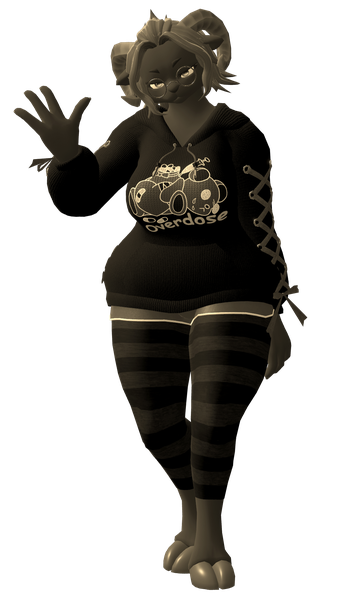
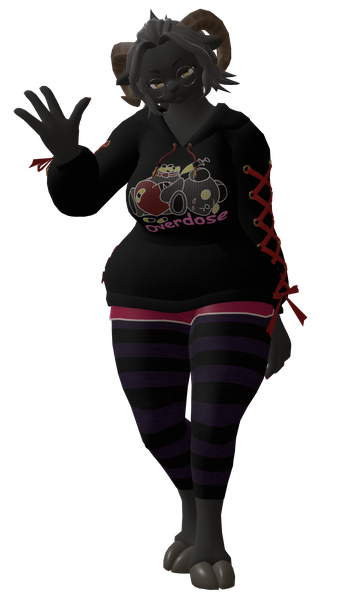
feat: キャストグリッド画像をカラー化・元画像対応表を追加
- 全27名分のグリッド画像（.png）を焼き木フィルターなしのカラーに変更
- docs/cast-images.md を新規作成（キャスト別ソース画像パス対応表）

diff --git a/docs/cast-images.md b/docs/cast-images.md
@@ -1,0 +1,84 @@
+# キャスト画像 元ファイル対応表
+
+画像処理パイプライン用のソース画像管理ドキュメント。
+
+## 処理ルール
+
+| 種類 | 用途 | 処理内容 |
+|------|------|----------|
+| `名前_original.png` | 詳細ビュー（クリック後） | FHD（長辺1920px）以下にリサイズのみ・カラー |
+| `名前.png` | グリッド一覧表示 | 長辺600pxにリサイズのみ・カラー（フィルターなし） |
+
+- 1枚のみ提供の場合: 同じ画像から両方を生成
+
+---
+
+## ソース画像フォルダ
+
+```
+/mnt/e/picture2/mesukemo/          ← ME
+/mnt/c/Users/yuuya/OneDrive/画像/VRChat/2026-04/  ← OD
+```
+
+---
+
+## キャスト別 元画像対応（全員特定済み）
+
+| キャスト | castファイル名 | 1枚目（original用） | 2枚目（grid用） | フォルダ |
+|---------|--------------|-------------------|----------------|---------|
+| takaniso | takaniso | 要提供 | `VRChat_2026-04-10_22-44-21.942_1080x1920.png` | OD |
+| 狐乃さまあ | samaa | 同上 | `VRChat_2026-04-10_03-40-07.191_720x1280.png` | ME (1枚) |
+| ぬの | nuno | 要提供 | `VRChat_2026-04-10_19-45-29.561_1080x1920.png` | ME |
+| きゅーとぬっこ | cute-nukko | 同上 | `VRChat_2026-04-10_19-43-54.378_1440x2560.png` | ME (1枚) |
+| ウルフィー | uryfi | 要提供 | `VRChat_2026-04-10_21-39-41.297_1080x1920.png` | OD |
+| うどん君 | udon_a | `VRChat_2026-04-10_22-18-21.548_1080x1920.png` | `VRChat_2026-04-10_22-17-28.855_1080x1920.png` | OD |
+| 天塚マウル | amatuka-mauru | 要提供 | `VRChat_2026-04-10_22-27-22.730_1080x1920.png` | OD |
+| yuki__san | yuki-san | 同上 | `VRChat_2026-04-10_02-27-41.603_1080x1920.png` | OD (1枚) |
+| 銀天のウェイン | ginten-wayne | 要提供 | `VRChat_2026-04-10_22-31-16.125_1080x1920.png` | ME |
+| 蒼天-Souten- | souten | 同上 | `VRChat_2026-04-09_23-14-22.953_1440x2560.png` | OD (1枚) |
+| 6ugca6 | 6ugca6 | 要提供 | 要提供 | — |
+| 竜ドラ | ryudora | 要提供 | `VRChat_2026-04-10_22-02-54.379_1440x2560.png` | ME |
+| ギラチー | girachii | 要提供 | `VRChat_2026-04-11_00-06-04.981_1080x1920.png` | ME |
+| Esupishia | eclixis | 要提供 | `VRChat_2026-04-10_23-54-44.145_1080x1920.png` | ME |
+| 音狐 | otokitsune | 要提供 | `VRChat_2026-04-11_00-02-16.556_1080x1920.png` | ME |
+| にっくん | nikkun | 要提供 | `VRChat_2026-04-11_00-35-45.199_1080x1920.png` | ME |
+| ？？？ | mystery17 | 同上 | `VRChat_2025-11-26_20-12-31.328_2560x1440.png` | ME (1枚) |
+| 御神 琥夏 | konatsu | 要提供 | `VRChat_2026-04-11_00-10-53.664_1080x1920.png` | ME |
+| NARGA | narga | 要提供 | `VRChat_2026-04-10_22-04-19.203_1440x2560.png` | ME |
+| エルビィ | elvie | 要提供 | `1775896471361.jpg` | ME |
+| Shint_Akatohi | shint-akatohi | 要提供 | `VRChat_2026-04-11_20-30-50.926_1080x1920.png` | ME |
+| ななみ | nanami | `VRChat_2026-04-10_23-19-04.820_1080x1920.png` | `VRChat_2026-04-10_23-19-42.824_1080x1920.png` | ME |
+| 香辛料シナモン | cinnamon | 同上 | `7_20260411215956.png` | ME (1枚) |
+| あかちゃん | akachan | `VRChat_2026-04-11_23-00-10.295_1080x1920.png` | `VRChat_2026-04-11_22-57-53.721_1080x1920.png` | ME |
+| にゃす | nyasu | `VRChat_2026-04-12_01-49-30.606_1080x1920.png` | `VRChat_2026-04-12_01-52-00.302_1080x1920.png` | ME |
+| まかうす | makauso | `VRChat_2026-04-12_10-33-14.855_1080x1920.png` | `VRChat_2026-04-12_10-34-02.807_1080x1920.png` | ME |
+| あらり | arari | `VRChat_2026-04-12_11-59-36.704_1080x1920.png` | `VRChat_2026-04-12_12-02-54.733_1080x1920.png` | ME |
+| 井之上・NN | inoue-nn | 同上 | `VRChat_2026-04-12_13-39-17.806_1080x1920.png` | ME (1枚) |
+
+※「同上」= 1枚目と同じ画像をgridにも使用  
+※「要提供」= originalはまだ受け取っていないため、画像を送ってもらえれば追加処理可能
+
+---
+
+## フォルダ内の大型ファイル（イベント/集合写真）
+
+| ファイル名 | フォルダ | 推定用途 |
+|-----------|---------|---------|
+| `VRChat_2026-04-10_22-41-06.602_3840x2160_Player.png` | ME | イベント写真 |
+| `VRChat_2026-04-10_23-43-39.012_2160x3840.png` | ME | イベント写真 |
+| `VRChat_2026-04-11_17-16-55.642_4320x7680.png` | ME | 高解像度イベント写真 |
+| `VRChat_2026-04-10_21-34-31.261_4320x7680.png` | ME | 高解像度イベント写真 |
+
+---
+
+## 新規キャスト追加時のテンプレート
+
+```markdown
+| キャスト名 | ファイル名ベース | 1枚目（original用） | 2枚目（grid用） | フォルダ |
+|-----------|--------------|-------------------|----------------|---------|
+| 名前 | filename | ファイル名.png | ファイル名.png | ME / OD |
+```
+
+---
+
+_最終更新: 2026-04-12_
